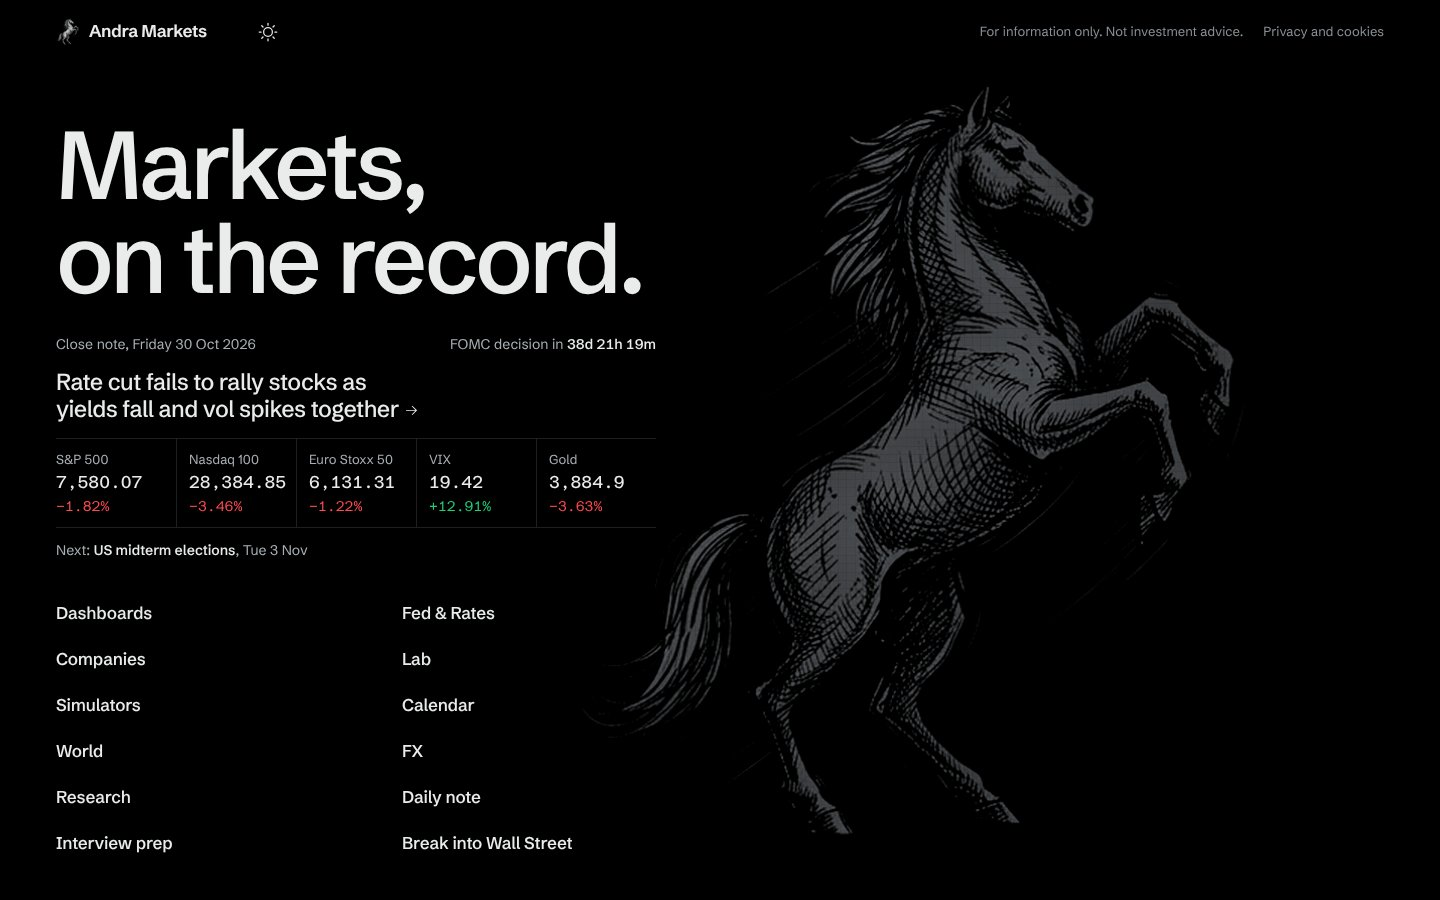
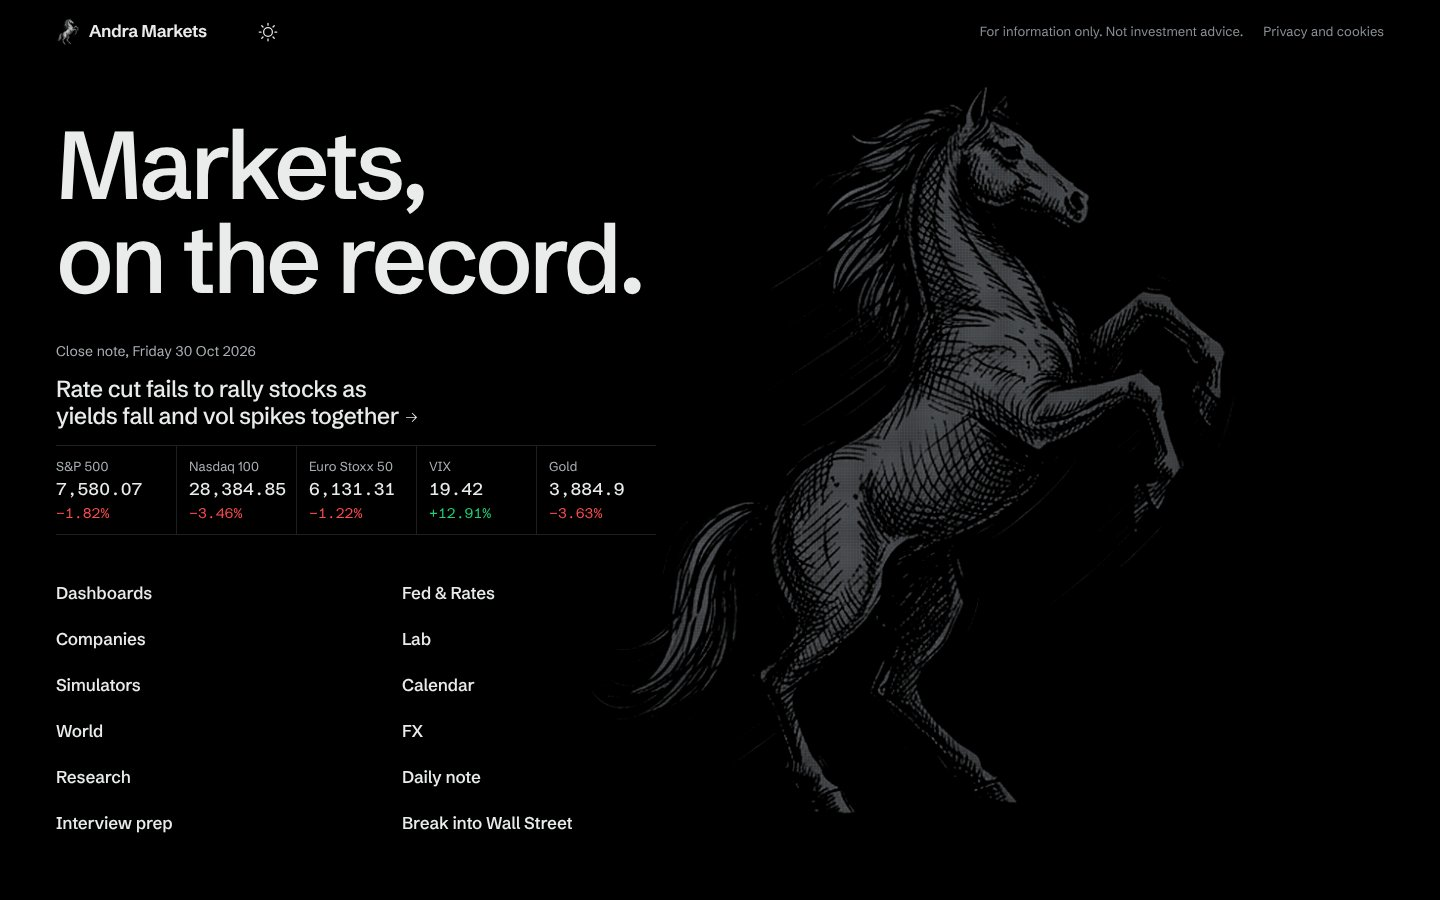
Proposal 1A: drop the FOMC countdown and the next event
Claude-Session: https://claude.ai/code/session_01FqZ93RaobKVVRZxoXhXr4n

diff --git a/docs/proposals/home-a.html b/docs/proposals/home-a.html
@@ -62,10 +62,9 @@
       <div class="wrap hero__copy">
         <h1 id="hero-title" style="--i:0">Markets, on&nbsp;the&nbsp;record.</h1>
         <section class="today" aria-label="Today in markets" style="--i:1">
-  <p class="today__row"><span>Close note, <span class="lg">Friday </span>30 Oct<span class="lg"> 2026</span></span><a href="fed-rates/">FOMC<span class="lg"> decision</span> in <span class="today__cd" data-cd>38d</span></a></p>
+  <p class="today__row"><span>Close note, <span class="lg">Friday </span>30 Oct<span class="lg"> 2026</span></span></p>
   <a class="today__note" href="reports/2026-10-30/">Rate cut fails to rally stocks as yields fall and vol spikes <span class="nw">together<svg class="icon" aria-hidden="true"><use href="#i-arrow-right"/></svg></span></a>
   <ul class="today__tape" aria-label="Close and daily change"><li><span class="n">S&amp;P 500</span><span class="l">7,580.07</span><span class="c mv--down">−1.82%</span></li><li><span class="n">Nasdaq 100</span><span class="l">28,384.85</span><span class="c mv--down">−3.46%</span></li><li><span class="n">Euro Stoxx 50</span><span class="l">6,131.31</span><span class="c mv--down">−1.22%</span></li><li><span class="n">VIX</span><span class="l">19.42</span><span class="c mv--up">+12.91%</span></li><li><span class="n">Gold</span><span class="l">3,884.9</span><span class="c mv--down">−3.63%</span></li></ul>
-  <p class="today__row today__next"><span>Next: <b>US midterm elections</b>, Tue 3 Nov</span></p>
 </section>
         <nav class="hero__index" aria-label="All sections" style="--i:1">
           <ul><li><a href="dashboards/">Dashboards</a></li><li><a href="fed-rates/">Fed &amp; Rates</a></li><li><a href="companies/">Companies</a></li><li><a href="lab/">Lab</a></li><li><a href="simulators/">Simulators</a></li><li><a href="calendar/">Calendar</a></li><li><a href="world/">World</a></li><li><a href="fx/">FX</a></li><li><a href="research/">Research</a></li><li><a href="reports/">Daily note</a></li><li><a href="interview-prep/">Interview prep</a></li><li><a href="break-into-wall-street/">Break into Wall Street</a></li></ul>
